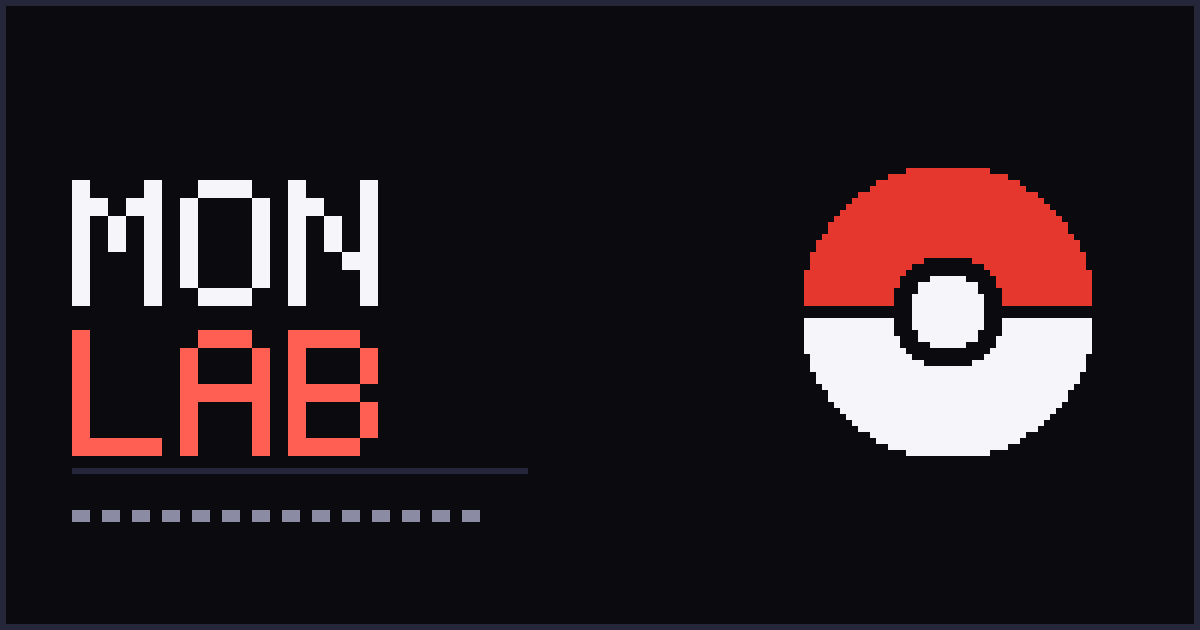
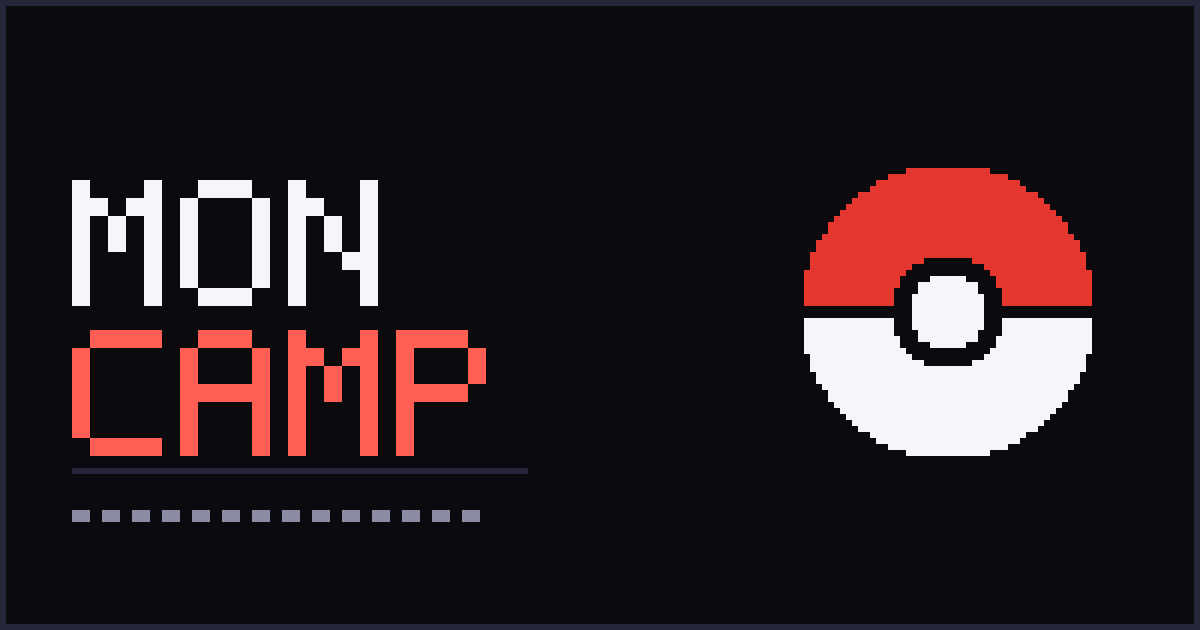
v3.27.0 서비스명 moncamp(몬캠프) · moncamp.kr 도메인 준비
이름 — monlab → moncamp. 현재 상태 파일 전부(index.html · app-shell · manifest · robots ·
build.py 404/dev robots · terms · privacy · home · router · i18n-en.js 3키 · og_gen MON/CAMP →
og.png · 테스트 셋). 조사 교정(moncamp는·와·를). 이력(패치노트·CHANGELOG·README 표)은 그대로.

도메인 준비 — 경로 하드코딩 점검 결과 상대 경로 구조라 절대 주소만 교체:
build.py SITE_URL/DEV_SITE_URL → https://moncamp.kr/ · https://dev.moncamp.kr/ (canonical ·
og · sitemap · robots Sitemap 출처), index.html 절대 주소 4곳, robots.txt 주석,
ship_dev.sh · verify_deploy.sh 주소. 숨은 함정 둘 — app.js 서비스워커 등록과 build.py GA
측정 ID 노출이 github.io 만 보던 조건 → moncamp.kr 추가.
배포 방식 — 실서비스는 actions/deploy-pages(CNAME 파일 무시, Settings 값), 미리보기는
peaceiris 브랜치 배포(gh-pages 루트 CNAME) → deploy-dev.yml 에 cname: dev.moncamp.kr.
사람이 할 순서는 docs/OPERATIONS.md 12절.

회귀 24묶음 통과.

Claude-Session: https://claude.ai/code/session_01Xpam839c3kE5VjCkKzpNQJ

Changed region(s): [[0.2467, 0.5127, 0.4317, 0.7238], [0.0617, 0.5127, 0.1542, 0.573], [0.0617, 0.6937, 0.0925, 0.7238]]

diff --git a/frontend/index.html b/frontend/index.html
@@ -5,8 +5,8 @@
 <!-- 2026-09-03 입력 포커스 시 화면 확대 방지 -->
 <meta name="viewport" content="width=device-width, initial-scale=1, viewport-fit=cover">
 <meta name="color-scheme" content="light dark">
-<!-- 2026-09-02 서비스명 POGO NOTE → 2026-09-03 POGO SEARCH → 2026-09-07 v2.17.0 POGO PLAN → 2026-09-14 v3.26.0 monlab(몬랩). 저장소명·배포 URL·localStorage 키·GA 이벤트명은 그대로 -->
-<title>monlab — 뭘 키우고, 뭘 잡을지</title>
+<!-- 2026-09-02 서비스명 POGO NOTE → 2026-09-03 POGO SEARCH → 2026-09-07 v2.17.0 POGO PLAN → 2026-09-14 v3.26.0 monlab(몬랩) → 2026-09-14 v3.27.0 moncamp(몬캠프, moncamp.kr). 저장소명·배포 URL·localStorage 키·GA 이벤트명은 그대로 -->
+<title>moncamp — 뭘 키우고, 뭘 잡을지</title>
 <link rel="preconnect" href="https://cdn.jsdelivr.net" crossorigin>
 <!-- 2026-09-07 v2.14.0 (QA-52) 웹폰트: 한글 Pretendard (jsdelivr, 동적 서브셋) + 아래 Galmuri.
      2026-09-13 v3.23.0 Google Fonts 의 Inter 링크를 뗐다 — v3.0.0 에 본문 글꼴로 넣었지만 v3.6.0 도트 디자인이
@@ -50,25 +50,25 @@
 <!-- 공유 미리보기(OG) — 카카오톡·디스코드·X 에 링크를 붙였을 때 뜨는 카드.
      그림은 도트로 직접 그린다 (backend/og_gen.py) — 도감 스프라이트가 픽셀인데
      미리보기만 매끈하면 눌러 들어온 화면과 결이 어긋난다 -->
-<link rel="canonical" href="https://minsangkwak.github.io/pogo-rank/">
+<link rel="canonical" href="https://moncamp.kr/">
 <meta name="description" content="포켓몬 GO 의 D-MAX · 레이드 · PvP 순위와 도감, 타입 상성, 이벤트 일정, 레이드 보스와 알 부화까지. 내 개체를 저장해 뭘 키울지 정하는 비공식 팬 도구입니다.">
 <meta property="og:type" content="website">
-<meta property="og:site_name" content="monlab">
-<meta property="og:title" content="monlab — 뭘 키우고, 뭘 잡을지">
+<meta property="og:site_name" content="moncamp">
+<meta property="og:title" content="moncamp — 뭘 키우고, 뭘 잡을지">
 <meta property="og:description" content="순위·도감·상성·일정을 한 화면에서. 내 포켓몬을 저장해 육성 우선순위를 정하세요.">
-<meta property="og:url" content="https://minsangkwak.github.io/pogo-rank/">
-<meta property="og:image" content="https://minsangkwak.github.io/pogo-rank/og.png">
+<meta property="og:url" content="https://moncamp.kr/">
+<meta property="og:image" content="https://moncamp.kr/og.png">
 <meta property="og:image:width" content="1200">
 <meta property="og:image:height" content="630">
-<meta property="og:image:alt" content="monlab — 도트로 그린 몬스터볼과 서비스 이름">
+<meta property="og:image:alt" content="moncamp — 도트로 그린 몬스터볼과 서비스 이름">
 <meta property="og:locale" content="ko_KR">
 <meta name="twitter:card" content="summary_large_image">
 <!-- 2026-09-12 v2.67.0 X·디스코드·슬랙은 og:* 로 폴백하지만, 카드 필드를 따로 읽는 수집기도 있다.
      같은 문장을 두 번 적는 대신 og 와 뜻이 어긋나지 않게 그대로 맞춘다 -->
-<meta name="twitter:title" content="monlab — 뭘 키우고, 뭘 잡을지">
+<meta name="twitter:title" content="moncamp — 뭘 키우고, 뭘 잡을지">
 <meta name="twitter:description" content="순위·도감·상성·일정을 한 화면에서. 내 포켓몬을 저장해 육성 우선순위를 정하세요.">
-<meta name="twitter:image" content="https://minsangkwak.github.io/pogo-rank/og.png">
-<meta name="twitter:image:alt" content="monlab — 도트로 그린 몬스터볼과 서비스 이름">
+<meta name="twitter:image" content="https://moncamp.kr/og.png">
+<meta name="twitter:image:alt" content="moncamp — 도트로 그린 몬스터볼과 서비스 이름">
 <!-- 2026-09-12 v3.6.0 검색 색인용 표시를 뺐다 — 아직 검색엔진에 올릴 단계가 아니다.
      남긴 것: og:* · twitter:* (링크를 붙였을 때 뜨는 미리보기 카드) · canonical · description.
      뺀 것: robots 색인 표시(빌드가 넣던 index, follow …) 와 구조화 데이터(JSON-LD).
@@ -92,7 +92,7 @@
 <meta name="theme-color" media="(prefers-color-scheme: light)" content="#fafafa">
 <meta name="theme-color" media="(prefers-color-scheme: dark)" content="#0a0a0f">
 <meta name="apple-mobile-web-app-capable" content="yes">
-<meta name="apple-mobile-web-app-title" content="monlab">
+<meta name="apple-mobile-web-app-title" content="moncamp">
 <!-- 2026-09-03 GA4 사용 통계: backend/build.py의 GA_ID가 채워진 빌드에만 삽입됨 -->
 __GA_SNIPPET__
 <!-- 2026-09-03 v2.2.1 첫 화면 로딩 가림막: 번들 CSS보다 먼저 적용되도록 여기에 최소 스타일만 -->
@@ -141,7 +141,7 @@ __STYLES__
 <!-- 2026-09-03 v2.2.1 로딩 화면 — 첫 렌더가 끝나면 app.js가 제거 -->
 <div id="splash">
   <div class="splash__ball" aria-hidden="true"></div>
-  <div class="splash__title">monlab</div>
+  <div class="splash__title">moncamp</div>
   <div class="splash__bar"><i></i></div>
   <div class="splash__sub">불러오는 중…</div>
 </div>
@@ -157,7 +157,7 @@ __STYLES__
     <!-- 2026-09-02 부제 추가 · 검색/메뉴 버튼 -->
     <div>
       <!-- 2026-09-03 v2.1.0 헤더 단순화: 서비스명 + 버전 / 서문 (To. 줄 제거, 헌정은 푸터 유지) · 2026-09-07 v2.17.0 POGO PLAN -->
-      <h1>monlab <span class="app-bar__version">__VERSION__</span></h1>
+      <h1>moncamp <span class="app-bar__version">__VERSION__</span></h1>
       <!-- 2026-09-12 v3.13.0 모드 배지(#mode-toggle)와 서문(.tagline)을 뺐다. app-shell.js 가 헤더를
            다시 조립하면서(v2.21.0) 이 덩이는 DOM 에서 떨어져 나가 있었다 — 누를 수도 볼 수도 없는 채로
            planner/shell.js 가 글자만 갈아 끼우고 있었다. 모드 전환은 왼쪽 메뉴의 화면 이동이 맡는다 -->
@@ -190,7 +190,7 @@ __STYLES__
     <!-- 2026-09-04 고지 문구 개편: 서비스 성격 / 저작권 / 문의 세 줄 -->
     <p class="foot-lead">포켓몬고 응애 친구들을 위해 만들어진 서비스예요.</p>
     <!-- 2026-09-07 v2.18.0 IP 고지문은 components/terms.js IP_NOTICE 한 곳에서 관리 — consent.js initConsent 가 채운다 (권리자 표기: The Pokémon Company · Nintendo · Scopely) -->
-    <p id="ip-notice">monlab은 비공식 팬 프로젝트이며 Pokémon 및 관련 명칭·이미지의 권리는 각 권리자에게 있습니다.</p>
+    <p id="ip-notice">moncamp는 비공식 팬 프로젝트이며 Pokémon 및 관련 명칭·이미지의 권리는 각 권리자에게 있습니다.</p>
     <p>데이터는 PvPoke · PokeMiners · PokeAPI · LeekDuck 의 공개 자료를 사용합니다. 코드는 MIT, 데이터·이미지는 각 출처의 조건을 따릅니다 (저장소 NOTICE).</p>
     <p class="foot-links">__CONTACT__<a href="#/privacy">개인정보처리방침</a> · <a href="#/terms">이용약관</a> · <button type="button" id="foot-consent">통계·저장소 설정</button> · <a href="https://github.com/MinsangKwak/pogo-rank" target="_blank" rel="noopener">GitHub</a></p>  <!-- 2026-09-05 v2.8.0 __CONTACT__: build.py 가 CONTACT_EMAIL 로 채움 · 2026-09-07 v2.18.0 약관·설정·GitHub -->
   </footer>

diff --git a/frontend/scripts/i18n-en.js b/frontend/scripts/i18n-en.js
@@ -485,8 +485,8 @@ const I18N_EN = {
   '통계 허용': 'Allow analytics',
   '이 사이트는 오프라인용 파일과 설정을 브라우저에 저장합니다(개인정보 아님). 방문 통계(Google Analytics)는 동의할 때만 켜지고, 위치정보는 수집하지 않습니다.':
     'This site stores offline files and settings in your browser (not personal data). Visit analytics (Google Analytics) only turn on if you agree, and no location data is collected.',
-  'monlab은 비공식 팬 프로젝트입니다. Pokémon 및 관련 명칭·이미지의 권리는 The Pokémon Company · Nintendo · Creatures Inc. · GAME FREAK inc. 에, Pokémon GO 는 Scopely Explore, Inc. 에 있으며 이 서비스는 권리자와 무관합니다.':
-    'monlab is an unofficial fan project. Pokémon and related names and images belong to The Pokémon Company · Nintendo · Creatures Inc. · GAME FREAK inc., and Pokémon GO to Scopely Explore, Inc.; this service is not affiliated with them.',
+  'moncamp는 비공식 팬 프로젝트입니다. Pokémon 및 관련 명칭·이미지의 권리는 The Pokémon Company · Nintendo · Creatures Inc. · GAME FREAK inc. 에, Pokémon GO 는 Scopely Explore, Inc. 에 있으며 이 서비스는 권리자와 무관합니다.':
+    'moncamp is an unofficial fan project. Pokémon and related names and images belong to The Pokémon Company · Nintendo · Creatures Inc. · GAME FREAK inc., and Pokémon GO to Scopely Explore, Inc.; this service is not affiliated with them.',
   '데이터는 PvPoke · PokeMiners · PokeAPI · LeekDuck 의 공개 자료를 사용합니다. 코드는 MIT, 데이터·이미지는 각 출처의 조건을 따릅니다 (저장소 NOTICE).':
     'Data comes from the public sources PvPoke · PokeMiners · PokeAPI · LeekDuck. The code is MIT; data and images follow each source’s terms (see NOTICE in the repository).',
 
@@ -767,7 +767,7 @@ const I18N_EN = {
   '완료': 'Done',
   '지금': 'Now',
   '언제': 'When',
-  'monlab과 함께하는 포켓몬 라이프': 'Your Pokémon GO companion',
+  'moncamp와 함께하는 포켓몬 라이프': 'Your Pokémon GO companion',
   'POGO PLAN과 함께하는 포켓몬 라이프': 'Your Pokémon GO companion',
   '찾고, 비교하고, 키우는 즐거움. 필요한 화면으로 바로 가요.': 'Find, compare, raise. Jump straight to the screen you need.',
   '지금 무엇을 하면 좋을까?': 'What should I do right now?',
@@ -1228,7 +1228,7 @@ const I18N_EN = {
   '무엇이 언제 바뀌었는지 적어 둬요.': 'A record of what changed and when.',
   '어떤 정보를 받고 어떻게 다루는지 알려 드려요.': 'What we collect and how we handle it.',
   '이 서비스를 쓸 때의 약속이에요.': 'The terms for using this service.',
-  'monlab 을 이루는 조각을 한자리에서 봐요. 화면을 새로 만들 때 여기서 가져다 써요.': 'Every building block of monlab in one place. Reuse them when building a new screen.',
+  'moncamp 를 이루는 조각을 한자리에서 봐요. 화면을 새로 만들 때 여기서 가져다 써요.': 'Every building block of moncamp in one place. Reuse them when building a new screen.',
 
   // 검색식 (finder.js) · 도감 (pages.js) · 설정 · 새 버전 (freshness.js)
   '조건 #개 · 게임 검색창에 그대로 붙여 넣으세요.': '# conditions · paste it straight into the in-game search box.',

diff --git a/frontend/scripts/components/app-shell.js b/frontend/scripts/components/app-shell.js
@@ -25,9 +25,9 @@ const version = oldHeading.querySelector('.app-bar__version').textContent;
 // 2026-09-08 v2.30.0 로고를 누르면 서비스 홈. 좁은 화면에서도 상단 바는 늘 로고 자리이므로
 // "여기가 처음으로 가는 곳" 이라는 웹의 오랜 약속을 그대로 쓴다.
 // h1 은 화면 이름을 읽어 주는 자리(포커스 대상)라 그대로 두고 안쪽에 버튼을 넣는다 —
-// #app-title 의 textContent 는 여전히 'monlab' 이다 (2026-09-14 v3.26.0 POGO PLAN → monlab)
+// #app-title 의 textContent 는 여전히 'moncamp' 이다 (2026-09-14 v3.26.0 POGO PLAN → monlab, v3.27.0 → moncamp)
 const appLogo = el('button', { type: 'button', id: 'app-logo', class: 'app-bar__logo',
-  onclick: () => goHome() }, 'monlab');
+  onclick: () => goHome() }, 'moncamp');
 const appTitle = el('h1', { id: 'app-title', tabindex: '-1' }, appLogo);
 const backButton = iconBtn('←', '이전 화면', () => {
   if (history.state?.appEntry) history.back();
@@ -211,7 +211,7 @@ const sideExtra = el('div', { class: 'app-nav__extra' });
 // 링크들이 원래 따로 놀던 형제라, 묶지 않으면 항목마다 테두리가 따로 생겨 "목록"이 아니라 "버튼 무더기"로
 // 읽힌다. 버전 문구(drawer__meta)는 카드 밖 맨 아래에 남는다
 const infoGroup = el('div', { class: 'drawer__group' });
-const versionMeta = el('p', { class: 'drawer__meta' }, 'monlab · ' + version);
+const versionMeta = el('p', { class: 'drawer__meta' }, 'moncamp · ' + version);
 function placeDrawerExtra() {
   if (wideScreen.matches) {
     // 2026-09-09 v2.40.1 카드에 담아 뒀던 것들을 먼저 꺼내 제자리로 되돌린다 — 이 줄이 없으면
@@ -283,7 +283,7 @@ function syncAppShell(moveFocus = false) {
   // 2026-09-11 v2.59.0 dev 미리보기는 제목 앞에 [dev] — 빌드가 붙여 둔 것을 화면 이동 때도 잇는다.
   // 채널을 따로 주입하지 않고 BUILD_VERSION 끝의 -dev 로 판별한다 (backend/build.py)
   const devMark = typeof BUILD_VERSION === 'string' && BUILD_VERSION.endsWith('-dev') ? '[dev] ' : '';
-  document.title = devMark + (title ? `${title} — monlab` : 'monlab');
+  document.title = devMark + (title ? `${title} — moncamp` : 'moncamp');
   backButton.hidden = home;
   document.body.dataset.screen = home ? 'home' : 'detail';
   // 측정용 표식 — 어느 화면인지 DOM 만 보고 알 수 있게 (GA · 히트맵 · 자동화 검사)

diff --git a/frontend/scripts/components/release.js b/frontend/scripts/components/release.js
@@ -7,7 +7,7 @@
 // 즉 새 패치노트를 알리는 방법은 아래 RELEASE_VER 문자열을 바꾸는 것 하나뿐이고,
 // 날짜나 항목 개수를 비교하지 않으므로 문구만 손볼 때는 뱃지가 뜨지 않는다.
 // 패치노트 페이지를 열면 markReleaseSeen()이 현재 버전을 기록해 빨간 점이 사라진다.
-const RELEASE_VER = '2026-09-14-39';  // v3.26.0 monlab · KR/EN 엄격 감사
+const RELEASE_VER = '2026-09-14-40';  // v3.27.0 moncamp · 도메인 준비
 const RELEASE_HIDE_KEY = 'pogo_release_hide';
 // 패치노트 데이터: 최신 날짜가 위로 오도록 직접 정렬해서 적는다(코드에서 다시 정렬하지 않는다).
 // 사용자가 그대로 읽는 문구이므로 표현을 임의로 다듬지 않고, 지난 항목도 기록으로 남겨 둔다
@@ -43,6 +43,10 @@ function releaseHasKoreanLeft() {
 }
 
 const RELEASE_NOTES = [
+  { date: '2026-09-14 · v3.27.0', items: [
+    '**서비스 이름이 moncamp(몬캠프)로 정해졌어요** — 어제 붙인 monlab 은 도메인을 구할 수 없어 하루 만에 접었어요. 새 주소 moncamp.kr 을 준비합니다. 저장된 설정과 계정은 그대로예요',
+    '**새 주소로 옮겨도 앱 설치(PWA)와 오프라인 열람이 그대로 되게 손봤어요** — 옛 주소에서만 켜지던 조건이라 그냥 옮기면 조용히 꺼질 뻔했어요',
+  ] },
   { date: '2026-09-14 · v3.26.0', items: [
     '**서비스 이름이 monlab(몬랩)이 됐어요** — 로고·제목·설치 이름·공유 카드·안내 문구가 전부 monlab 으로 바뀝니다. 주소와 저장된 설정은 그대로예요',
     '**KR/EN 전환에서 한국어로 남던 자잘한 곳을 전부 훑었어요** — 로그인 안내 팝업 · 잠긴 화면 카드 · 계정 카드 · 상세 팝업의 약점/내성과 CP 각주 · D-MAX 딜러/탱커 제목과 각주 · 개체값 순위 · 검색식 안내 · 동의 배너 · 설정 · 기술 변경 · 솔플 계산기 · 내 포켓몬 편집창까지. 열아홉 화면과 팝업을 영어로 열어 남은 한국어 172건을 잡았고, 일정표 이벤트 이름만 일부러 둡니다(한국 서버 일정이에요)',

diff --git a/frontend/scripts/components/terms.js b/frontend/scripts/components/terms.js
@@ -19,7 +19,7 @@
 const TERMS_VER = '2026-09-07';
 const TERMS_OK_KEY = 'pogo_terms_ok';
 // 권리자 표기는 노션 "상용·오픈소스 전환 점검" 결정 — Pokémon GO 는 Scopely Explore, Inc. (2025년 Niantic 게임 사업 인수)
-const IP_NOTICE = 'monlab은 비공식 팬 프로젝트입니다. Pokémon 및 관련 명칭·이미지의 권리는 The Pokémon Company · Nintendo · Creatures Inc. · GAME FREAK inc. 에, Pokémon GO 는 Scopely Explore, Inc. 에 있으며 이 서비스는 권리자와 무관합니다.';
+const IP_NOTICE = 'moncamp는 비공식 팬 프로젝트입니다. Pokémon 및 관련 명칭·이미지의 권리는 The Pokémon Company · Nintendo · Creatures Inc. · GAME FREAK inc. 에, Pokémon GO 는 Scopely Explore, Inc. 에 있으며 이 서비스는 권리자와 무관합니다.';
 
 function termsAccepted() {
   try { return localStorage.getItem(TERMS_OK_KEY) === TERMS_VER; } catch { return false; }
@@ -70,7 +70,7 @@ function renderTermsPage() {
   // 2026-09-08 v2.29.0 한국어 원문이 효력을 갖는 문서라 번역하지 않는다 (영어 안내만 위에 단다)
   return el('div', { class: 'page__body' },
     i18nKoOnlyNote(),
-    p('monlab(이하 "서비스")을 이용하기 전에 읽어 주세요. 서비스는 개인이 무료로 운영하는 비공식 팬 프로젝트이며, 이 약관은 서비스가 실제로 하는 것과 하지 않는 것을 정합니다.'),
+    p('moncamp(이하 "서비스")를 이용하기 전에 읽어 주세요. 서비스는 개인이 무료로 운영하는 비공식 팬 프로젝트이며, 이 약관은 서비스가 실제로 하는 것과 하지 않는 것을 정합니다.'),
     footNote(`시행일 ${TERMS_VER} (v2.18.0 신설). 개정하면 시행 7일 전에 패치노트로 알리고, 다음 로그인 때 다시 동의를 받습니다.`),
 
     sec('1. 서비스란',

diff --git a/frontend/scripts/i18n-release-en.js b/frontend/scripts/i18n-release-en.js
@@ -15,6 +15,10 @@
 // ─────────────────────────────────────────────────────────────────────────────
 
 const RELEASE_NOTES_EN = {
+  '2026-09-14 · v3.27.0': [
+    '**The service is now named moncamp** — yesterday\u2019s monlab lasted a day: no domain was available. The new address moncamp.kr is being prepared. Saved settings and accounts are unchanged.',
+    '**App install (PWA) and offline reading keep working at the new address** — they were switched on for the old address only, so a plain move would have silently turned them off.',
+  ],
   '2026-09-14 · v3.26.0': [
     '**The service is now called monlab** — logo, title, install name, share card and every notice say monlab. The address and your saved settings are unchanged.',
     '**Every small spot that stayed Korean in the KR/EN switch has been swept** — the sign-in prompt, locked-screen card, account card, the weakness/resistance headings and CP footnotes in the detail popup, D-MAX attacker/tank titles and notes, IV ranking, search-builder hint, consent banner, settings, move changes, the solo calculator and the My Pokémon editor. Nineteen screens and popups were opened in English and 172 leftovers fixed; only event names in the schedule stay Korean on purpose (it is the Korean server schedule).',

diff --git a/frontend/scripts/components/privacy.js b/frontend/scripts/components/privacy.js
@@ -32,7 +32,7 @@ function renderPrivacyPage() {
   // 2026-09-08 v2.29.0 한국어 원문이 효력을 갖는 문서라 번역하지 않는다 (영어 안내만 위에 단다)
   return el('div', { class: 'page__body' },
     i18nKoOnlyNote(),
-    p('monlab(이하 "서비스")은 로그인하지 않으면 개인정보를 수집하지 않습니다. Google 로그인으로 승인된 사용자에게만 즐겨찾기·내 포켓몬 저장 기능을 제공하며, 이 문서는 그 과정에서 무엇을 어디에 얼마나 보관하는지 설명합니다.'),
+    p('moncamp(이하 "서비스")는 로그인하지 않으면 개인정보를 수집하지 않습니다. Google 로그인으로 승인된 사용자에게만 즐겨찾기·내 포켓몬 저장 기능을 제공하며, 이 문서는 그 과정에서 무엇을 어디에 얼마나 보관하는지 설명합니다.'),
     footNote(`시행일 2026-09-04 · 개정 2026-09-06 (이용 통계에 계정 식별자 연결) · 2026-09-07 (플래너 개체 정보 항목) · ${PRIVACY_VER} v2.18.0 (처리위탁·국외이전·보유기간·14세·보호책임자·자동수집·셀프 삭제 명시). 서비스는 개인이 무료로 운영하며 상업적 목적이 없습니다.`),
 
     sec('1. 수집하는 개인정보',

diff --git a/frontend/scripts/components/home.js b/frontend/scripts/components/home.js
@@ -101,7 +101,7 @@ function renderServiceHome() {
     .map(([group, label]) => [label, ROUTES.filter((route) => route.nav && !route.parent && (route.group || 'mine') === group)])
     .filter(([, routes]) => routes.length);
   const features = el('section', { class: 'home__features', 'aria-label': '서비스 기능' },
-    el('div', { class: 'home__section' }, el('h3', {}, '무엇을 해볼까요?'), el('span', {}, 'monlab과 함께하는 포켓몬 라이프')),
+    el('div', { class: 'home__section' }, el('h3', {}, '무엇을 해볼까요?'), el('span', {}, 'moncamp와 함께하는 포켓몬 라이프')),
     el('div', { class: 'home__service-grid' }, ...groups.map(([label, routes], index) =>
       el('section', { class: 'home__service-group' },
         el('h4', { class: 'home__group' }, el('span', {}, `0${index + 1}`), label),

diff --git a/tests/e2e/nav.js b/tests/e2e/nav.js
@@ -160,7 +160,7 @@ suite(async () => {
   ok('랭킹 화면에 탭 줄이 없다', await page.locator('#tabs').isHidden());
   ok('바로가기도 없다', (await page.locator('#tabs .tabs__item--quick').count()) === 0);
   // v2.30.0 상단 바는 늘 로고, 화면 이름은 본문 헤더로 (좁은 화면도 PC 와 같은 규칙)
-  ok('상단 바는 로고', (await page.locator('#app-title').textContent()).trim() === 'monlab');
+  ok('상단 바는 로고', (await page.locator('#app-title').textContent()).trim() === 'moncamp');
   ok('화면 헤더 = D-MAX', (await page.locator('#page-head h2').textContent()) === 'D-MAX');
   // 메뉴로 옮겨 다닌다 (탭 줄이 하던 일). 좁은 화면은 메뉴가 드로어 안이라 먼저 연다
   if (!wide) { await page.click('#menu-toggle'); await page.waitForTimeout(350); }

diff --git a/frontend/scripts/app.js b/frontend/scripts/app.js
@@ -238,4 +238,5 @@ initFreshness();
   : new Promise((resolve) => window.addEventListener('load', resolve))
 ).then(initAuth);
 // 2026-09-03 PWA 오프라인 캐시 (배포 환경에서만 — 로컬 개발 중 캐시 꼬임 방지)
-if ('serviceWorker' in navigator && location.hostname.endsWith('github.io')) navigator.serviceWorker.register('sw.js').catch(() => {});
+// 2026-09-14 v3.27.0 커스텀 도메인 moncamp.kr 에서도 등록한다 — github.io 만 보던 조건이라 도메인을 옮기면 PWA 캐시가 조용히 꺼졌다
+if ('serviceWorker' in navigator && (location.hostname.endsWith('github.io') || location.hostname.endsWith('moncamp.kr'))) navigator.serviceWorker.register('sw.js').catch(() => {});

diff --git a/tests/e2e/shell.js b/tests/e2e/shell.js
@@ -105,7 +105,7 @@ suite(async () => {
     const bar = await page.locator('#app-title').textContent();
     const headVisible = await page.locator('#page-head').isVisible();
     // v2.30.0 좁은 화면도 같은 규칙 — 상단 바는 로고, 화면 이름은 본문 헤더
-    ok(`${label} 상단 바는 로고`, bar === 'monlab', bar);
+    ok(`${label} 상단 바는 로고`, bar === 'moncamp', bar);
     ok(`${label} 화면 헤더 보임`, headVisible && (await page.locator('#page-head h2').textContent()) === '레이드 · PvE');
     const headTop = (await page.locator('#page-head').boundingBox()).y;
     const contentTop = (await page.locator('#content').boundingBox()).y;

diff --git a/frontend/scripts/router.js b/frontend/scripts/router.js
@@ -170,7 +170,7 @@ const ROUTE_DESC = {
   terms: '이 서비스를 쓸 때의 약속이에요.',
   settings: '화면을 어떻게 볼지 정해요. 로그인하면 계정에 저장돼 어느 기기에서든 같아요.',
   // mon 은 적지 않는다 — kind:'detail' 이라 화면 머리가 아니라 팝업 안에 이름이 뜬다
-  styleguide: 'monlab 을 이루는 조각을 한자리에서 봐요. 화면을 새로 만들 때 여기서 가져다 써요.',
+  styleguide: 'moncamp 를 이루는 조각을 한자리에서 봐요. 화면을 새로 만들 때 여기서 가져다 써요.',
 };
 function routeDesc(id) {
   return ROUTE_DESC[id] || '';
